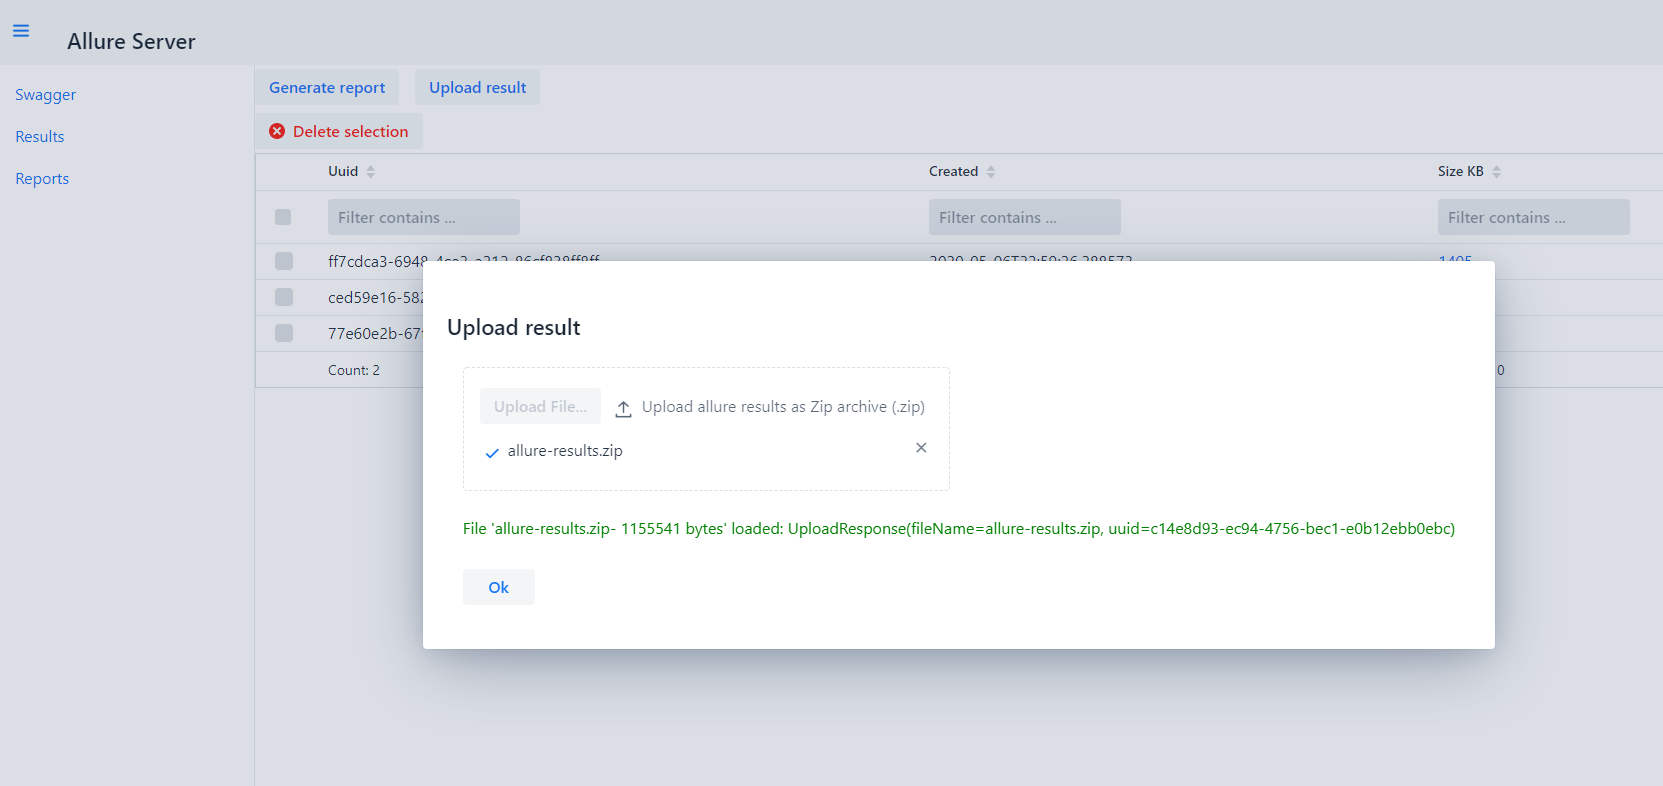
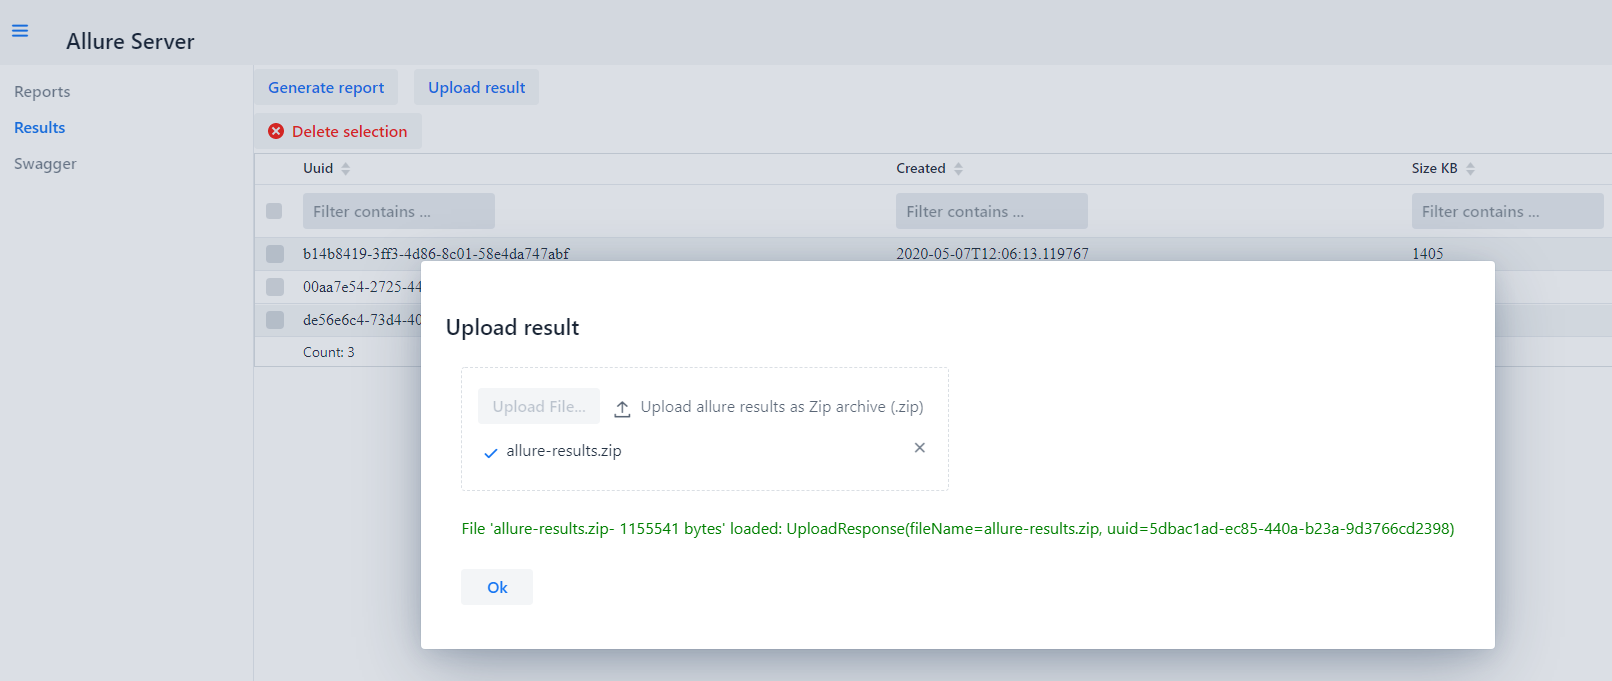
* fix bugs * improve UX

diff --git a/src/main/java/ru/iopump/qa/allure/gui/component/FilteredGrid.java b/src/main/java/ru/iopump/qa/allure/gui/component/FilteredGrid.java
@@ -1,15 +1,20 @@
 package ru.iopump.qa.allure.gui.component;
 
+import com.google.common.collect.Maps;
 import com.vaadin.flow.component.HasComponents;
 import com.vaadin.flow.component.grid.Grid;
+import com.vaadin.flow.component.grid.GridVariant;
 import com.vaadin.flow.component.grid.HeaderRow;
 import com.vaadin.flow.component.html.Anchor;
+import com.vaadin.flow.component.html.Span;
 import com.vaadin.flow.component.textfield.TextField;
 import com.vaadin.flow.data.provider.ListDataProvider;
 import com.vaadin.flow.data.renderer.ComponentRenderer;
 import com.vaadin.flow.data.renderer.Renderer;
 import com.vaadin.flow.data.value.ValueChangeMode;
 import java.util.List;
+import java.util.Map;
+import java.util.function.Supplier;
 import java.util.stream.Collectors;
 import java.util.stream.IntStream;
 import lombok.Getter;
@@ -19,11 +24,14 @@ import ru.iopump.qa.util.Str;
 
 public class FilteredGrid<T> {
     private final static String GRID_CLASS = "report-grid";
+    public static final String FONT_FAMILY = "font-family";
+    public static final String GERMANIA_ONE = "Germania One";
 
     private final ListDataProvider<T> dataProvider;
     @Getter
     private final Grid<T> grid;
     private final List<Col<T>> columnSpecList;
+    private final Map<Grid.Column<T>, Supplier<String>> dynamicFooter = Maps.newHashMap();
 
     public FilteredGrid(
         @NonNull final Class<T> rowClass,
@@ -34,8 +42,12 @@ public class FilteredGrid<T> {
         this.grid = new Grid<>(rowClass, false);
         this.columnSpecList = columnSpecList;
 
+        grid.addThemeVariants(GridVariant.LUMO_COMPACT, GridVariant.LUMO_ROW_STRIPES);
         baseConfigurationGrid();
         filterConfiguration();
+
+        updateFooters(); // Init footers
+        dataProvider.addDataProviderListener(event -> updateFooters()); // Update footers on change
     }
 
     public FilteredGrid<T> addTo(HasComponents parent) {
@@ -66,7 +78,6 @@ public class FilteredGrid<T> {
         filterField.setValueChangeMode(ValueChangeMode.LAZY);
         filterField.setClearButtonVisible(true);
         filterField.setPlaceholder("Filter contains ...");
-        // filterField.setSizeFull();
 
         headerCell.setComponent(filterField);
     }
@@ -81,8 +92,8 @@ public class FilteredGrid<T> {
         final List<Grid.Column<T>> cols = columnSpecList.stream()
             .map(this::addColumn)
             .collect(Collectors.toUnmodifiableList());
-        cols.stream().findFirst().ifPresent(c -> c.setFooter("Count: " + dataProvider.getItems().size()));
-
+        cols.stream().findFirst()
+            .ifPresent(c -> dynamicFooter.put(c, () -> "Count: " + dataProvider.getItems().size()));
     }
 
     protected Grid.Column<T> addColumn(Col<T> columnSpec) {
@@ -90,17 +101,20 @@ public class FilteredGrid<T> {
 
         switch (columnSpec.getType()) {
             case LINK:
-                column = grid.addColumn(linkRenderer(columnSpec));
+                column = grid.addColumn(link(columnSpec));
                 break;
             case NUMBER:
-                column = grid.addColumn(linkRenderer(columnSpec));
-                long amount = dataProvider.getItems().stream()
-                    .mapToLong(item -> Long.parseLong(Str.toStr(columnSpec.getValue().apply(item))))
-                    .sum();
-                column.setFooter("Total: " + amount);
+                column = grid.addColumn(text(columnSpec));
+                final Supplier<String> footer = () -> {
+                    long amount = dataProvider.getItems().stream()
+                        .mapToLong(item -> Long.parseLong(Str.toStr(columnSpec.getValue().apply(item))))
+                        .sum();
+                    return "Total: " + amount;
+                };
+                dynamicFooter.put(column, footer);
                 break;
             default:
-                column = grid.addColumn(columnSpec.getValue());
+                column = grid.addColumn(text(columnSpec));
                 break;
         }
 
@@ -111,10 +125,25 @@ public class FilteredGrid<T> {
         return column;
     }
 
-    private Renderer<T> linkRenderer(Col<T> columnSpec) {
+    private Renderer<T> text(Col<T> columnSpec) {
+        return new ComponentRenderer<>(row -> {
+            var value = Str.toStr(columnSpec.getValue().apply(row));
+            var res = new Span(value);
+            res.getStyle().set(FONT_FAMILY, GERMANIA_ONE);
+            return res;
+        });
+    }
+
+    private Renderer<T> link(Col<T> columnSpec) {
         return new ComponentRenderer<>(row -> {
             var link = Str.toStr(columnSpec.getValue().apply(row));
-            return new Anchor(link, link);
+            var res = new Anchor(link, link);
+            res.getStyle().set(FONT_FAMILY, GERMANIA_ONE);
+            return res;
         });
+    }
+
+    private void updateFooters() {
+        dynamicFooter.forEach((col, sup) -> col.setFooter(sup.get()));
     }
 }

diff --git a/src/main/java/ru/iopump/qa/allure/gui/MainLayout.java b/src/main/java/ru/iopump/qa/allure/gui/MainLayout.java
@@ -2,24 +2,22 @@ package ru.iopump.qa.allure.gui;
 
 import com.vaadin.flow.component.applayout.AppLayout;
 import com.vaadin.flow.component.applayout.DrawerToggle;
-import com.vaadin.flow.component.html.Anchor;
 import com.vaadin.flow.component.html.H3;
 import com.vaadin.flow.component.orderedlayout.FlexComponent;
 import com.vaadin.flow.component.orderedlayout.HorizontalLayout;
-import com.vaadin.flow.component.orderedlayout.VerticalLayout;
+import com.vaadin.flow.component.tabs.Tab;
+import com.vaadin.flow.component.tabs.Tabs;
 import com.vaadin.flow.router.HighlightConditions;
 import com.vaadin.flow.router.RouterLink;
-import org.springframework.web.servlet.support.ServletUriComponentsBuilder;
 import ru.iopump.qa.allure.gui.view.ReportsView;
 import ru.iopump.qa.allure.gui.view.ResultsView;
+import ru.iopump.qa.allure.gui.view.SwaggerView;
 
 public class MainLayout extends AppLayout {
 
     public static final String ALLURE_SERVER = "Allure Server";
 
     private static final long serialVersionUID = 2881152775131362224L;
-
-    private final String baseUrl = ServletUriComponentsBuilder.fromCurrentContextPath().build().toUriString();
 
     public MainLayout() {
         createHeader();
@@ -43,9 +41,13 @@ public class MainLayout extends AppLayout {
         reports.setHighlightCondition(HighlightConditions.sameLocation());
         var results = new RouterLink("Results", ResultsView.class);
         results.setHighlightCondition(HighlightConditions.sameLocation());
-        var swagger = new Anchor(baseUrl + "/swagger", "Swagger");
+        // var swagger = new Anchor(baseUrl + "/swagger", "Swagger");
+        var swagger = new RouterLink("Swagger", SwaggerView.class);
+        results.setHighlightCondition(HighlightConditions.sameLocation());
 
-        var verticalMenu = new VerticalLayout(swagger, results, reports);
-        addToDrawer(verticalMenu);
+        Tabs tabs = new Tabs(new Tab(reports), new Tab(results), new Tab(swagger));
+        tabs.setOrientation(Tabs.Orientation.VERTICAL);
+
+        addToDrawer(tabs);
     }
 }

diff --git a/src/main/java/ru/iopump/qa/allure/service/ResultService.java b/src/main/java/ru/iopump/qa/allure/service/ResultService.java
@@ -87,8 +87,8 @@ public class ResultService {
     public Path unzipAndStore(@NonNull InputStream archiveInputStream) throws IOException {
         Preconditions.checkArgument(archiveInputStream.available() > 0,
             "Passed InputStream is empty");
-        final Path tmpResultDirectory;
-        final Path resultDirectory;
+        Path tmpResultDirectory = null;
+        Path resultDirectory = null;
         try (InputStream io = archiveInputStream) {
             final String uuid = UUID.randomUUID().toString();
             tmpResultDirectory = storagePath.resolve(uuid + "_tmp");
@@ -96,6 +96,16 @@ public class ResultService {
             Files.createDirectories(resultDirectory);
             checkAndUnzipTo(io, tmpResultDirectory);
             move(tmpResultDirectory, resultDirectory);
+        } catch (Exception ex) { //NOPMD
+            if (resultDirectory != null) {
+                // Clean on error
+                FileUtils.deleteQuietly(resultDirectory.toFile());
+            }
+            if (tmpResultDirectory != null) {
+                // Clean on error
+                FileUtils.deleteQuietly(tmpResultDirectory.toFile());
+            }
+            throw ex; // And re-throw
         }
         log.info("Archive content saved to '{}'", resultDirectory);
         return resultDirectory;

diff --git a/src/main/java/ru/iopump/qa/allure/gui/view/ReportsView.java b/src/main/java/ru/iopump/qa/allure/gui/view/ReportsView.java
@@ -15,7 +15,6 @@ import com.vaadin.flow.component.orderedlayout.VerticalLayout;
 import com.vaadin.flow.data.provider.ListDataProvider;
 import com.vaadin.flow.router.PageTitle;
 import com.vaadin.flow.router.Route;
-import java.io.IOException;
 import java.lang.reflect.Proxy;
 import java.util.Collection;
 import java.util.List;
@@ -61,13 +60,14 @@ public class ReportsView extends VerticalLayout {
                     try {
                         jpaReportService.internalDeleteByUUID(uuid);
                         Notification.show("Delete success: " + uuid, 2000, Notification.Position.TOP_START);
-                    } catch (IOException e) {
+                    } catch (Exception e) { //NOPMD
                         Notification.show("Deleting error: " + e.getLocalizedMessage(),
                             5000,
                             Notification.Position.TOP_START);
                         log.error("Deleting error", e);
                     }
                 }
+                reports.getGrid().deselectAll();
                 reports.getGrid().getDataProvider().refreshAll();
             });
         deleteSelection.addThemeVariants(ButtonVariant.LUMO_ERROR);

diff --git a/src/main/java/ru/iopump/qa/allure/gui/view/ResultsView.java b/src/main/java/ru/iopump/qa/allure/gui/view/ResultsView.java
@@ -15,7 +15,6 @@ import com.vaadin.flow.component.orderedlayout.VerticalLayout;
 import com.vaadin.flow.data.provider.ListDataProvider;
 import com.vaadin.flow.router.PageTitle;
 import com.vaadin.flow.router.Route;
-import java.io.IOException;
 import java.lang.reflect.Proxy;
 import java.util.Collection;
 import java.util.List;
@@ -76,13 +75,14 @@ public class ResultsView extends VerticalLayout {
                     try {
                         allureResultController.deleteResult(uuid);
                         Notification.show("Delete success: " + uuid, 2000, Notification.Position.TOP_START);
-                    } catch (IOException e) {
+                    } catch (Exception e) { //NOPMD
                         Notification.show("Deleting error: " + e.getLocalizedMessage(),
                             5000,
                             Notification.Position.TOP_START);
                         log.error("Deleting error", e);
                     }
                 }
+                results.getGrid().deselectAll();
                 results.getGrid().getDataProvider().refreshAll();
             });
         deleteSelection.addThemeVariants(ButtonVariant.LUMO_ERROR);

diff --git a/src/main/java/ru/iopump/qa/allure/gui/view/SwaggerView.java b/src/main/java/ru/iopump/qa/allure/gui/view/SwaggerView.java
@@ -1,0 +1,25 @@
+package ru.iopump.qa.allure.gui.view;
+
+import static ru.iopump.qa.allure.gui.MainLayout.ALLURE_SERVER;
+
+import com.vaadin.flow.component.Tag;
+import com.vaadin.flow.component.html.IFrame;
+import com.vaadin.flow.component.orderedlayout.VerticalLayout;
+import com.vaadin.flow.router.PageTitle;
+import com.vaadin.flow.router.Route;
+import lombok.extern.slf4j.Slf4j;
+import ru.iopump.qa.allure.gui.MainLayout;
+
+@Tag("swagger-view")
+@PageTitle("Swagger | " + ALLURE_SERVER)
+@Route(value = "swagger", layout = MainLayout.class)
+@Slf4j
+public class SwaggerView extends VerticalLayout {
+    private static final long serialVersionUID = 5822077036734476962L;
+
+    public SwaggerView() {
+        var frame = new IFrame("/swagger");
+        frame.setSizeFull();
+        add(frame);
+    }
+}
